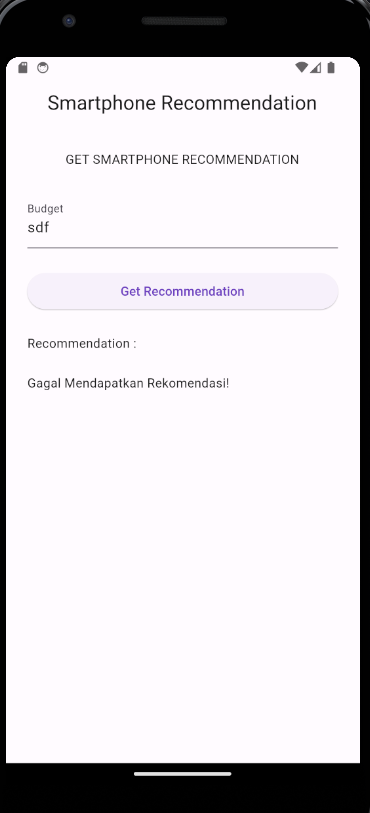
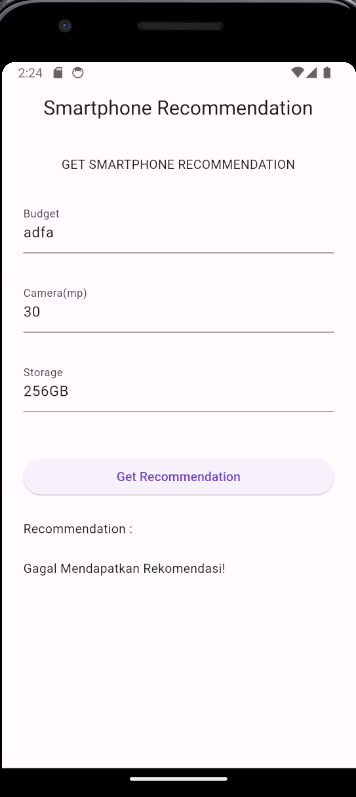
lupa masukin spec camera dan storage

diff --git a/Minggu 9/3_OpenAI-in-Flutter/praktikum/openai_app/lib/screen/recommendationi_screen/recommendation_screen.dart b/Minggu 9/3_OpenAI-in-Flutter/praktikum/openai_app/lib/screen/recommendationi_screen/recommendation_screen.dart
@@ -10,11 +10,15 @@ class RecommendationScreen extends StatefulWidget {
 }
 
 class _RecommendationScreenState extends State<RecommendationScreen> {
-  final TextEditingController _controller = TextEditingController();
+  final TextEditingController _budgetController = TextEditingController();
+  final TextEditingController _cameraController = TextEditingController();
+  final TextEditingController _storageController = TextEditingController();
 
   @override
   void dispose() {
-    _controller.dispose();
+    _budgetController.dispose();
+    _cameraController.dispose();
+    _storageController.dispose();
     super.dispose();
   }
 
@@ -38,16 +42,40 @@ class _RecommendationScreenState extends State<RecommendationScreen> {
             ),
             TextField(
               decoration: const InputDecoration(
-                  label: Text('Budget'), hintText: 'ex : 15000000'),
-              controller: _controller,
+                  label: Text('Budget'), hintText: 'insert your budget in IDR'),
+              controller: _budgetController,
+              keyboardType: TextInputType.number,
+            ),
+            const SizedBox(
+              height: 24,
+            ),
+            TextField(
+              decoration: const InputDecoration(
+                  label: Text('Camera(mp)'),
+                  hintText: 'insert your camera spec in mega pixel'),
+              controller: _cameraController,
+              keyboardType: TextInputType.number,
+            ),
+            const SizedBox(
+              height: 24,
+            ),
+            TextField(
+              decoration: const InputDecoration(
+                  label: Text('Storage'), hintText: 'ex: 128GB'),
+              controller: _storageController,
+            ),
+            const SizedBox(
+              height: 24,
             ),
             Padding(
               padding: const EdgeInsets.symmetric(vertical: 24),
               child: ElevatedButton(
                   onPressed: () {
-                    context
-                        .read<RecommendationBloc>()
-                        .add(GetRecommendationEvent(budget: _controller.text));
+                    context.read<RecommendationBloc>().add(
+                        GetRecommendationEvent(
+                            budget: _budgetController.text,
+                            camera: _cameraController.text,
+                            internalStorage: _storageController.text));
                   },
                   child: const Text('Get Recommendation')),
             ),

diff --git a/Minggu 9/3_OpenAI-in-Flutter/praktikum/openai_app/lib/services/recommendation.dart b/Minggu 9/3_OpenAI-in-Flutter/praktikum/openai_app/lib/services/recommendation.dart
@@ -6,7 +6,10 @@ import 'package:openai_app/models/openAi_model/openai_model.dart';
 import 'package:http/http.dart' as http;
 
 class RecommendationService {
-  static Future<OpenAiModel> getRecommendation({required String budget}) async {
+  static Future<OpenAiModel> getRecommendation(
+      {required String budget,
+      required String camera,
+      required String internalStorage}) async {
     late OpenAiModel openaiModel = OpenAiModel(
         id: "",
         object: "",
@@ -34,7 +37,7 @@ class RecommendationService {
       String smartphoneBudget = formatCurrency.format(int.parse(budget));
 
       String promptData =
-          "You are a smartphone expert. Give me a smartphone recommendations with budget equals $smartphoneBudget";
+          "You are a smartphone expert. Give me a smartphone recommendations with budget equals $smartphoneBudget with camera $camera mega pixel and internal storage $internalStorage";
 
       final data = jsonEncode({
         "model": "text-davinci-003",

diff --git a/Minggu 9/3_OpenAI-in-Flutter/praktikum/openai_app/lib/screen/recommendationi_screen/recommendation_bloc/recommendation_bloc.dart b/Minggu 9/3_OpenAI-in-Flutter/praktikum/openai_app/lib/screen/recommendationi_screen/recommendation_bloc/recommendation_bloc.dart
@@ -15,11 +15,13 @@ class RecommendationBloc
   void _onGetRecommendation(
       GetRecommendationEvent event, Emitter<RecommendationState> emit) async {
     final String budget = event.budget;
+    final String camera = event.camera;
+    final String internalStorage = event.internalStorage;
 
     try {
       emit(RecommendationLoadingState());
-      OpenAiModel openAiModel =
-          await RecommendationService.getRecommendation(budget: budget);
+      OpenAiModel openAiModel = await RecommendationService.getRecommendation(
+          budget: budget, camera: camera, internalStorage: internalStorage);
       emit(RecommendationLoadedState(openAiModel: openAiModel));
     } catch (e) {
       emit(const RecommendationErrorState(

diff --git a/Minggu 9/3_OpenAI-in-Flutter/praktikum/openai_app/lib/screen/recommendationi_screen/recommendation_bloc/recommendation_event.dart b/Minggu 9/3_OpenAI-in-Flutter/praktikum/openai_app/lib/screen/recommendationi_screen/recommendation_bloc/recommendation_event.dart
@@ -9,9 +9,14 @@ sealed class RecommendationEvent extends Equatable {
 
 final class GetRecommendationEvent extends RecommendationEvent {
   final String budget;
+  final String camera;
+  final String internalStorage;
 
-  const GetRecommendationEvent({required this.budget});
+  const GetRecommendationEvent(
+      {required this.camera,
+      required this.internalStorage,
+      required this.budget});
 
   @override
-  List<Object> get props => [budget];
+  List<Object> get props => [budget, camera, internalStorage];
 }
